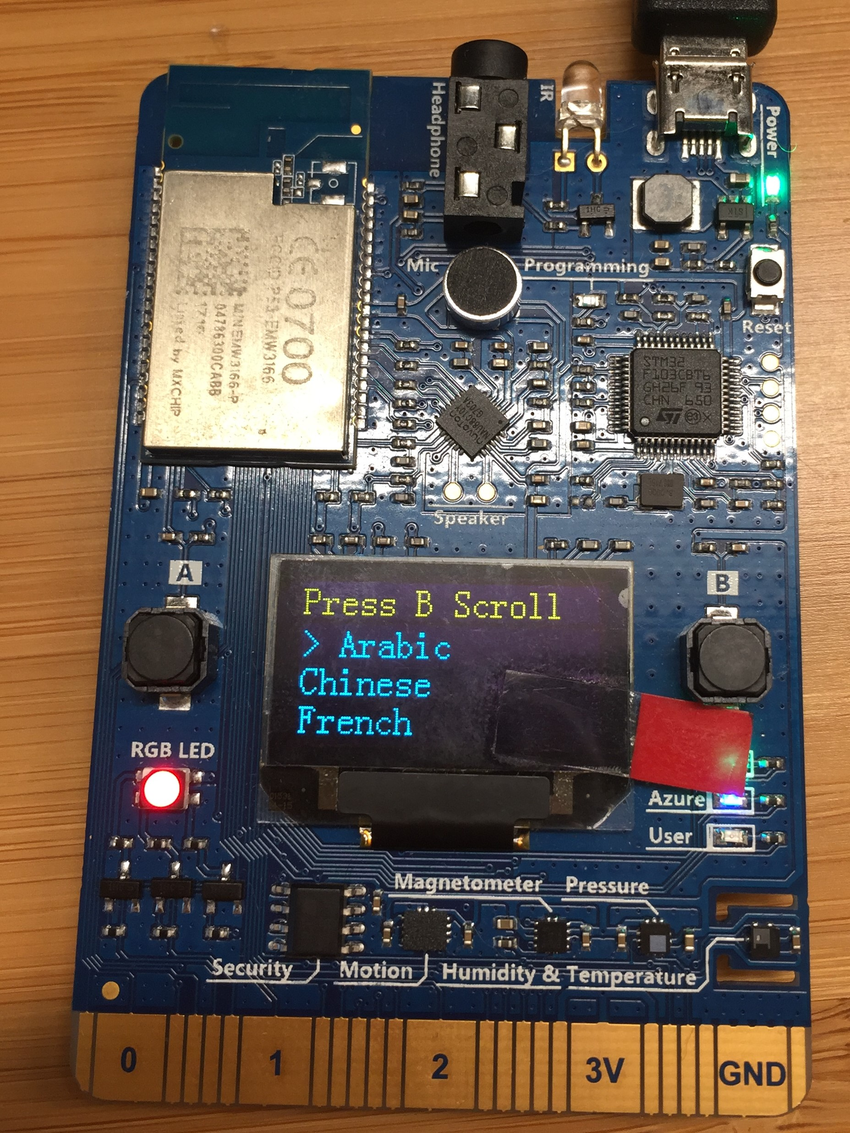
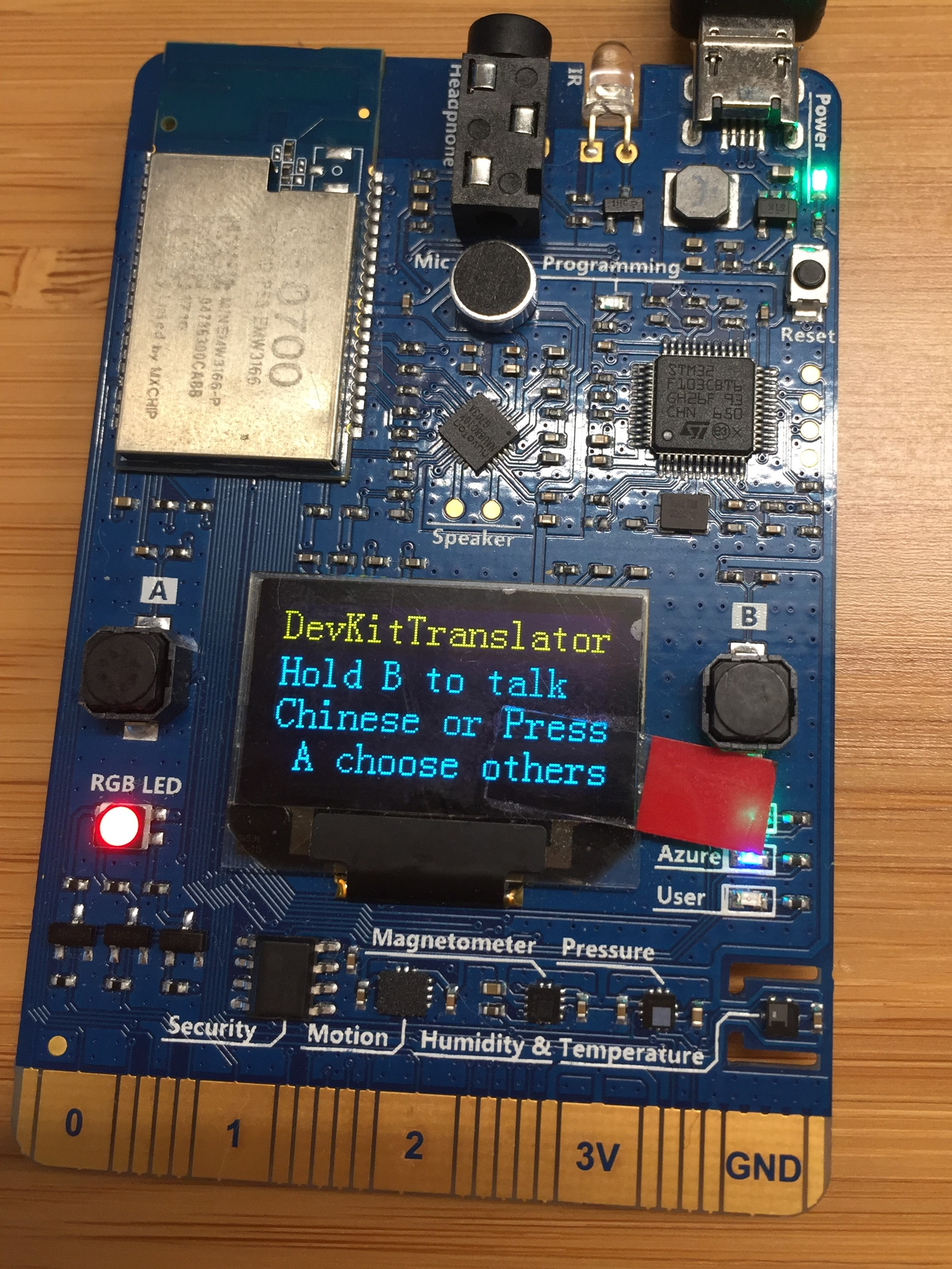
add more images and remove mac os steps

diff --git a/docs/_projects/05-devkit-translator.md b/docs/_projects/05-devkit-translator.md
@@ -11,18 +11,22 @@ layouts_gallery:
     alt: "Arduino application initializing"
   - url: /assets/images/mini-solution-devkit-translator-2.jpg
     image_path: /assets/images/mini-solution-devkit-translator-2.jpg
-    alt: "Configure speech language"
+    alt: "DevKit Initialized"
   - url: /assets/images/mini-solution-devkit-translator-3.jpg
     image_path: /assets/images/mini-solution-devkit-translator-3.jpg
-    alt: "Ready to talk"
+    alt: "Choose source language-1"
   - url: /assets/images/mini-solution-devkit-translator-4.jpg
     image_path: /assets/images/mini-solution-devkit-translator-4.jpg
-    alt: "Translation"
+    alt: "Choose source language-2"
+  - url: /assets/images/mini-solution-devkit-translator-5.jpg
+    image_path: /assets/images/mini-solution-devkit-translator-5.jpg
+    alt:  "Ready to talk"
+  - url: /assets/images/mini-solution-devkit-translator-6.jpg
+    image_path: /assets/images/mini-solution-devkit-translator-6.jpg
+    alt:  "Translation"
 variable:
   - platform: windows
     name: Windows
-  - platform: macos
-    name: macOS
 last_modified_at: 2017-07-17T20:15:34-04:00
 ---
 
@@ -84,10 +88,6 @@ The DevKit will reboot and start running.
 **Notice:** If you are running on a clean machine with everything installed, during the verifying of the code phrase, you might get an error of **Unknown board AZ3166**.
 To work around, open Arduino IDE, navigate to **Tool > Board manager**. Arduino will reload all json files of all package definitions. After that, launch VS Code and try to build again, everything will be good.
 {: .notice--warning}
-
-## macOS
-
-We are currently working on interative command line experience for macOS just same as for Windows. These [manual steps]({{"/docs/projects/devkit-translator-macos/" | absolute_url }}) will use portal to provision Azure services.
 
 ## Test the project
 
